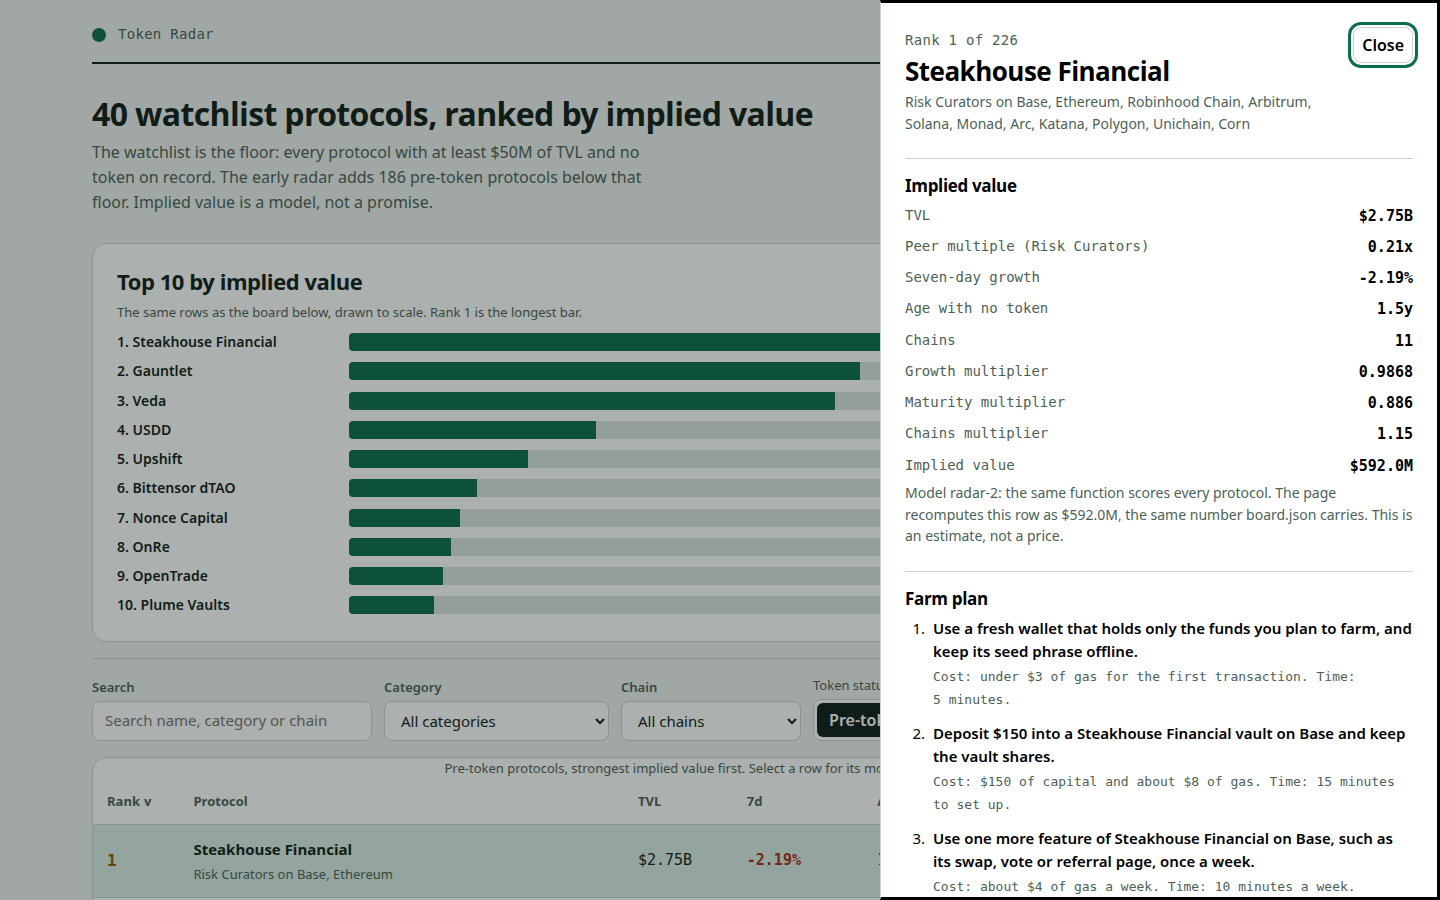
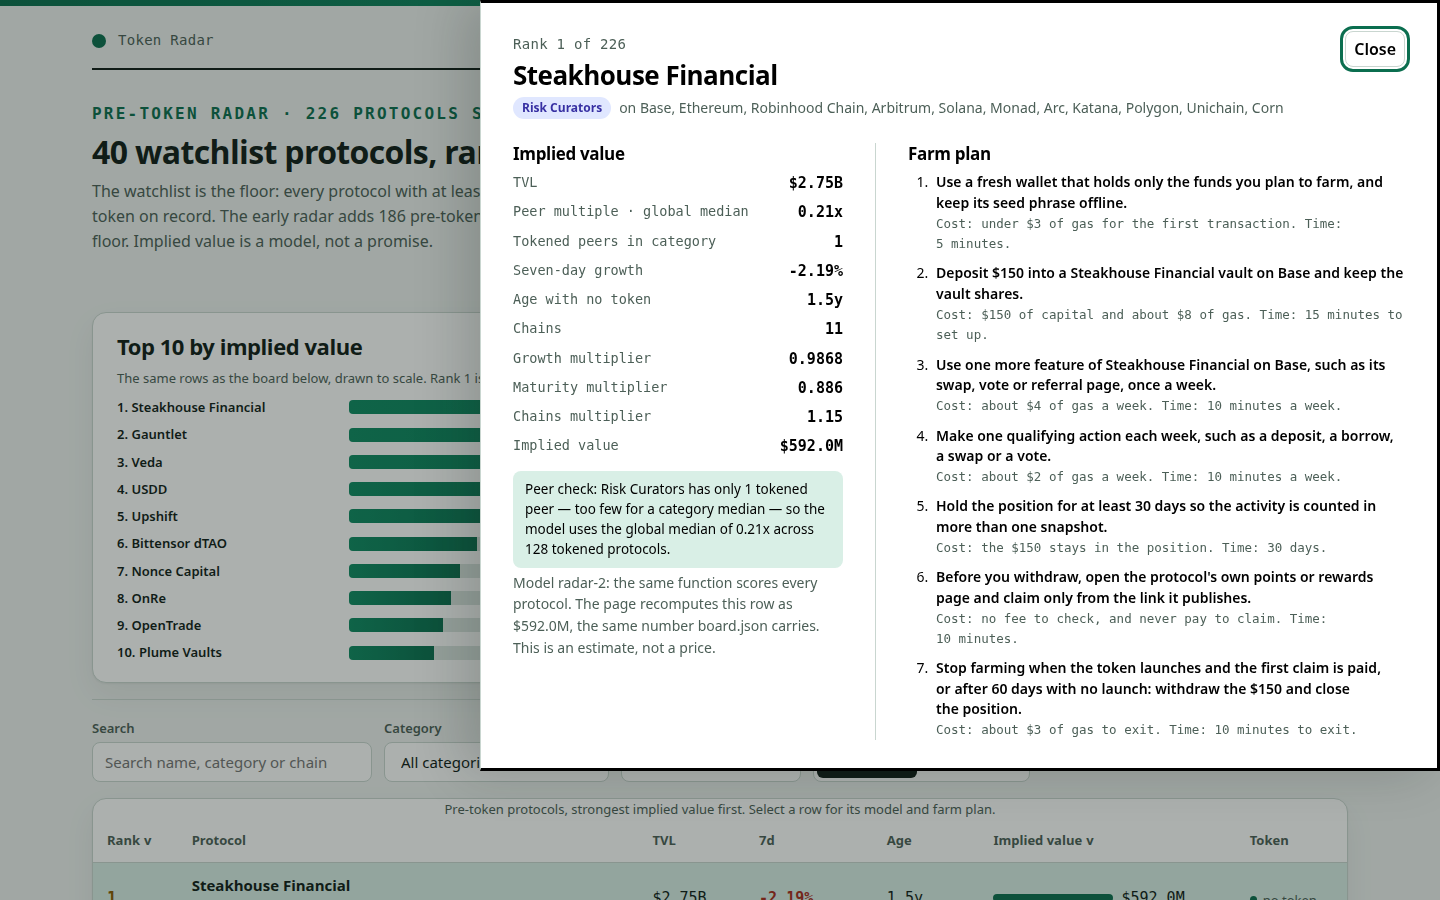
Premium polish: filter-aware chart, category chips, two-column detail with peer check
- Top-10 chart now follows the active search/category/chain filter
  (heading + counts name the filtered set); board shot shows 10 rows
- Detail drawer is two columns (model + peer check left, all 7 farm
  steps right) so the whole drawer fits one 900px viewport
- Peer comparison is now visible in the drawer: category median vs
  global median with the reason (too few / no tokened peers), plus
  floor/cap note; model panel states the <3-peer fallback
- Premium look: gradient accent strip, kicker, fact cards, zebra
  rows, panel depth, compact chart; dashboard still 43,147 bytes
  (cap 65,536), no external URLs; model and board values unchanged

diff --git a/dashboard/app.js b/dashboard/app.js
@@ -65,6 +65,23 @@
     return node;
   }
 
+  // Category chips: a fixed 8-colour palette, assigned by a hash of the category name, so no
+  // category is special-cased and every row gets a readable coloured chip.
+  var CHIP_COLORS = [
+    ['#d9efe6', '#0b5c40'], ['#dbe9f7', '#1d4e89'], ['#ece4f8', '#5b2d8e'], ['#fdeeda', '#7a4a00'],
+    ['#fbdfe1', '#8c1d24'], ['#e3f2d9', '#2f5d0f'], ['#e0e7ff', '#3730a3'], ['#f0e4d8', '#6b3a1f']
+  ];
+  function catColor(cat) {
+    var h = 0;
+    var s = String(cat || 'Other');
+    for (var i = 0; i < s.length; i++) h = (h * 31 + s.charCodeAt(i)) >>> 0;
+    return CHIP_COLORS[h % CHIP_COLORS.length];
+  }
+  function chip(cat) {
+    var c = catColor(cat);
+    return el('span', { class: 'chip', style: 'background:' + c[0] + ';color:' + c[1], text: cat || 'Other' });
+  }
+
   // The farm plan is the same derivation main.ts writes to board.json: category, chains, TVL and age
   // decide the action, the capital, the hold and every cost and time. No name is special-cased.
   function chainOf(p) { return p.chains && p.chains.length > 0 ? p.chains[0] : 'its main chain'; }
@@ -190,6 +207,7 @@
   function lede() {
     return el('section', { class: 'lede' },
       el('div', null,
+        el('p', { class: 'kicker', text: 'Pre-token radar · ' + DATA.board_size + ' protocols scored · ' + DATA.watchlist_size + ' on the watchlist' }),
         el('h1', { text: DATA.watchlist_size + ' watchlist protocols, ranked by implied value' }),
         el('p', { text: 'The watchlist is the floor: every protocol with at least $' + Math.round(DATA.floor_usd / 1e6) + 'M of TVL and no token on record. The early radar adds ' + DATA.early_size + ' pre-token protocols below that floor. Implied value is a model, not a promise.' })
       ),
@@ -202,11 +220,15 @@
     );
   }
 
-  // Top-10 chart: plain HTML bars, drawn from the same rows the table shows. No image, no network,
-  // and no SVG namespace string in the source.
+  // Top-10 chart: plain HTML bars, drawn from the same rows the table shows — the rows currently
+  // in view, so the chart always follows the active search, category and chain filters. No image,
+  // no network, and no SVG namespace string in the source.
   function topChart() {
-    var top = DATA.rows.slice(0, 10);
+    var list = rows();
+    if (list.length === 0) return null;
+    var top = list.slice(0, 10);
     var max = top[0] ? top[0].implied_value_usd : 1;
+    var filtered = state.category !== 'all' || state.chain !== 'all' || state.q.trim() !== '';
     var bars = top.map(function (r) {
       var w = Math.max(4, Math.round((r.implied_value_usd / max) * 100));
       return el('div', { class: 'chart-row' },
@@ -216,8 +238,8 @@
       );
     });
     return el('section', { class: 'panel chart-panel' },
-      el('h2', { text: 'Top 10 by implied value' }),
-      el('p', { class: 'sub', text: 'The same rows as the board below, drawn to scale. Rank 1 is the longest bar.' }),
+      el('h2', { text: 'Top 10 by implied value' + (state.category !== 'all' ? ' · ' + state.category : '') }),
+      el('p', { class: 'sub', text: filtered ? 'The top 10 of the ' + list.length + ' row' + (list.length === 1 ? '' : 's') + ' in view, drawn to scale. Rank 1 is the longest bar.' : 'The same rows as the board below, drawn to scale. Rank 1 is the longest bar.' }),
       el('div', { class: 'chart' }, bars)
     );
   }
@@ -288,7 +310,10 @@
         el('td', { class: 'num rank ' + rankBadge(r.rank), text: String(r.rank) }),
         el('td', null, el('div', { class: 'name' },
           el('b', { text: r.name }),
-          el('span', { class: 'sub', text: (r.category || 'Other') + ' on ' + (r.chains && r.chains.length ? r.chains.slice(0, 2).join(', ') : 'an unnamed chain') })
+          el('div', { class: 'row-sub' },
+            chip(r.category),
+            el('span', { class: 'sub', text: 'on ' + (r.chains && r.chains.length ? r.chains.slice(0, 2).join(', ') : 'an unnamed chain') })
+          )
         )),
         el('td', { class: 'num', text: fmtUsd(r.tvl_usd) }),
         el('td', { class: 'num ' + growthClass, text: growth }),
@@ -325,7 +350,13 @@
     DATA.live.forEach(function (r) {
       tbody.appendChild(el('tr', null,
         el('td', { class: 'num', text: 'live' }),
-        el('td', null, el('div', { class: 'name' }, el('b', { text: r.name }), el('span', { class: 'sub', text: (r.category || 'Other') + ' on ' + (r.chains && r.chains.length ? r.chains.slice(0, 2).join(', ') : 'an unnamed chain') }))),
+        el('td', null, el('div', { class: 'name' },
+          el('b', { text: r.name }),
+          el('div', { class: 'row-sub' },
+            chip(r.category),
+            el('span', { class: 'sub', text: 'on ' + (r.chains && r.chains.length ? r.chains.slice(0, 2).join(', ') : 'an unnamed chain') })
+          )
+        )),
         el('td', { class: 'num', text: fmtUsd(r.tvl_usd) }),
         el('td', { class: 'num ' + (r.change_7d !== null && r.change_7d >= 0 ? 'pos' : 'neg'), text: fmtPct(r.change_7d) }),
         el('td', { class: 'num', text: fmtUsd(r.mcap_usd) }),
@@ -359,7 +390,7 @@
       el('div', { class: 'formula' },
         'implied = round( tvl_usd x peerMultiple x (1 + clamp(change_7d, ' + m.growth_floor + ', ' + m.growth_cap + ') / 100 x ' + m.growth_weight + ') x (' + m.maturity_floor + ' + min(age_days, ' + m.maturity_days + ') / ' + m.maturity_days + ' x ' + m.maturity_range + ') x (1 + 0.03 x min(chains - 1, 5)) )'
       ),
-      el('p', { class: 'sub', text: 'peerMultiple is the median market-cap / TVL of the tokened protocols in the same category, computed from this snapshot and clamped to ' + m.peer_floor + '–' + m.peer_cap + '. TVL and seven-day growth come from the snapshot. Age is the time since the protocol was first listed, the best record of how long it has run with no token; an unlisted age uses ' + m.unknown_age_days + ' days. The early radar is every pre-token protocol below the watchlist floor, ranked by implied value, and the live-token protocols are set aside with their market caps shown.' }),
+      el('p', { class: 'sub', text: 'peerMultiple is the median market-cap / TVL of the tokened protocols in the same category, computed from this snapshot and clamped to ' + m.peer_floor + '–' + m.peer_cap + '. When a category has fewer than ' + m.peer_min_peers + ' tokened peers, the global median across all tokened protocols is used instead. TVL and seven-day growth come from the snapshot. Age is the time since the protocol was first listed, the best record of how long it has run with no token; an unlisted age uses ' + m.unknown_age_days + ' days. The early radar is every pre-token protocol below the watchlist floor, ranked by implied value, and the live-token protocols are set aside with their market caps shown.' }),
       el('h3', { text: 'Peer multiples by category' }),
       el('div', { class: 'peers' }, peerRows)
     );
@@ -375,37 +406,66 @@
     writeHash();
     dialog.textContent = '';
     var steps = farmSteps(row);
+    // Peer comparison: the row's multiple is the category median when the category has enough
+    // tokened peers, otherwise the global median across every tokened protocol; a category with
+    // no tokened peer at all is not in the peer list, so it falls back the same way. Say which.
+    var peer = (DATA.peer_multiples || []).filter(function (p) { return p.category === row.category; })[0];
+    var peerTotal = (DATA.peer_multiples || []).reduce(function (a, p) { return a + p.peers; }, 0);
+    var mult = row.peer_multiple === null || row.peer_multiple === undefined ? null : row.peer_multiple;
+    var peerLabel = 'Peer multiple';
+    var peerNoteText;
+    if (peer && peer.peers >= DATA.model.peer_min_peers) {
+      peerLabel = 'Peer multiple · category median';
+      peerNoteText = 'Peer check: ' + row.category + ' has ' + peer.peers + ' tokened peers, median market-cap / TVL ' + peer.multiple.toFixed(2) + 'x. This row is scored with that multiple.';
+    } else if (peer) {
+      peerLabel = 'Peer multiple · global median';
+      peerNoteText = 'Peer check: ' + row.category + ' has only ' + peer.peers + ' tokened peer' + (peer.peers === 1 ? '' : 's') + ' — too few for a category median — so the model uses the global median of ' + (mult === null ? 'n/a' : mult.toFixed(2) + 'x') + ' across ' + peerTotal + ' tokened protocols.';
+    } else {
+      peerLabel = 'Peer multiple · global median';
+      peerNoteText = 'Peer check: no tokened peer in ' + row.category + ' yet, so the model uses the global median of ' + (mult === null ? 'n/a' : mult.toFixed(2) + 'x') + ' across ' + peerTotal + ' tokened protocols.';
+    }
+    if (mult !== null && mult <= DATA.model.peer_floor + 1e-9) peerNoteText += ' It sits at the model floor of ' + DATA.model.peer_floor + 'x.';
+    else if (mult !== null && mult >= DATA.model.peer_cap - 1e-9) peerNoteText += ' It sits at the model cap of ' + DATA.model.peer_cap + 'x.';
     dialog.appendChild(el('div', { class: 'detail-head' },
       el('div', null,
         el('span', { class: 'brand-name', text: 'Rank ' + row.rank + ' of ' + DATA.board_size }),
         el('h2', { id: 'detail-title', text: row.name }),
-        el('p', { class: 'sub', text: (row.category || 'Other') + ' on ' + (row.chains && row.chains.length ? row.chains.join(', ') : 'an unnamed chain') })
+        el('div', { class: 'row-sub' },
+          chip(row.category),
+          el('span', { class: 'sub', text: 'on ' + (row.chains && row.chains.length ? row.chains.join(', ') : 'an unnamed chain') })
+        )
       ),
       el('button', { class: 'close', type: 'button', 'aria-label': 'Close details', text: 'Close', onclick: function () { dialog.close(); } })
     ));
-    dialog.appendChild(el('section', { class: 'detail-section' },
-      el('h3', { text: 'Implied value' }),
-      el('div', { class: 'equation' },
-        el('div', null, el('span', { text: 'TVL' }), el('b', { class: 'num', text: fmtUsd(row.tvl_usd) })),
-        el('div', null, el('span', { text: 'Peer multiple (' + (row.category || 'Other') + ')' }), el('b', { class: 'num', text: (row.peer_multiple === null || row.peer_multiple === undefined ? 'n/a' : row.peer_multiple.toFixed(2) + 'x') })),
-        el('div', null, el('span', { text: 'Seven-day growth' }), el('b', { class: 'num', text: fmtPct(row.change_7d) })),
-        el('div', null, el('span', { text: 'Age with no token' }), el('b', { class: 'num', text: fmtAge(row.age_days) })),
-        el('div', null, el('span', { text: 'Chains' }), el('b', { class: 'num', text: String(row.chains ? row.chains.length : 0) })),
-        el('div', null, el('span', { text: 'Growth multiplier' }), el('b', { class: 'num', text: String(row.growth_multiplier) })),
-        el('div', null, el('span', { text: 'Maturity multiplier' }), el('b', { class: 'num', text: String(row.maturity_multiplier) })),
-        el('div', null, el('span', { text: 'Chains multiplier' }), el('b', { class: 'num', text: String(row.chains_multiplier) })),
-        el('div', null, el('span', { text: 'Implied value' }), el('b', { class: 'num', text: fmtUsd(row.implied_value_usd) }))
+    // Two columns, so the model and the whole farm plan fit in one 900px viewport: the implied
+    // value and its peer check on the left, all seven farm steps on the right.
+    dialog.appendChild(el('div', { class: 'detail-grid' },
+      el('section', { class: 'detail-section' },
+        el('h3', { text: 'Implied value' }),
+        el('div', { class: 'equation' },
+          el('div', null, el('span', { text: 'TVL' }), el('b', { class: 'num', text: fmtUsd(row.tvl_usd) })),
+          el('div', null, el('span', { text: peerLabel }), el('b', { class: 'num', text: (row.peer_multiple === null || row.peer_multiple === undefined ? 'n/a' : row.peer_multiple.toFixed(2) + 'x') })),
+          peer ? el('div', null, el('span', { text: 'Tokened peers in category' }), el('b', { class: 'num', text: String(peer.peers) })) : null,
+          el('div', null, el('span', { text: 'Seven-day growth' }), el('b', { class: 'num', text: fmtPct(row.change_7d) })),
+          el('div', null, el('span', { text: 'Age with no token' }), el('b', { class: 'num', text: fmtAge(row.age_days) })),
+          el('div', null, el('span', { text: 'Chains' }), el('b', { class: 'num', text: String(row.chains ? row.chains.length : 0) })),
+          el('div', null, el('span', { text: 'Growth multiplier' }), el('b', { class: 'num', text: String(row.growth_multiplier) })),
+          el('div', null, el('span', { text: 'Maturity multiplier' }), el('b', { class: 'num', text: String(row.maturity_multiplier) })),
+          el('div', null, el('span', { text: 'Chains multiplier' }), el('b', { class: 'num', text: String(row.chains_multiplier) })),
+          el('div', null, el('span', { text: 'Implied value' }), el('b', { class: 'num', text: fmtUsd(row.implied_value_usd) }))
+        ),
+        el('p', { class: 'peer-note', text: peerNoteText }),
+        el('p', { class: 'sub', text: 'Model ' + DATA.model_version + ': the same function scores every protocol. The page recomputes this row as ' + fmtUsd(impliedOf(row, DATA.model)) + (impliedOf(row, DATA.model) === row.implied_value_usd ? ', the same number board.json carries.' : ', which differs from the board: the data would be stale.') + ' This is an estimate, not a price.' })
       ),
-      el('p', { class: 'sub', text: 'Model ' + DATA.model_version + ': the same function scores every protocol. The page recomputes this row as ' + fmtUsd(impliedOf(row, DATA.model)) + (impliedOf(row, DATA.model) === row.implied_value_usd ? ', the same number board.json carries.' : ', which differs from the board: the data would be stale.') + ' This is an estimate, not a price.' })
-    ));
-    dialog.appendChild(el('section', { class: 'detail-section' },
-      el('h3', { text: 'Farm plan' }),
-      el('ol', { class: 'steps' }, steps.map(function (s) {
-        var at = s.indexOf(' Cost: ');
-        var action = at >= 0 ? s.slice(0, at) : s;
-        var tail = at >= 0 ? s.slice(at + 1) : '';
-        return el('li', null, el('b', { text: action }), el('span', { class: 'cost', text: tail }));
-      }))
+      el('section', { class: 'detail-section' },
+        el('h3', { text: 'Farm plan' }),
+        el('ol', { class: 'steps' }, steps.map(function (s) {
+          var at = s.indexOf(' Cost: ');
+          var action = at >= 0 ? s.slice(0, at) : s;
+          var tail = at >= 0 ? s.slice(at + 1) : '';
+          return el('li', null, el('b', { text: action }), el('span', { class: 'cost', text: tail }));
+        }))
+      )
     ));
     if (typeof dialog.showModal === 'function') {
       if (!dialog.open) dialog.showModal();
@@ -419,7 +479,10 @@
     var shell = el('div', { class: 'shell' });
     shell.appendChild(header());
     shell.appendChild(lede());
-    if (state.tab === 'pre-token') shell.appendChild(topChart());
+    if (state.tab === 'pre-token') {
+      var chart = topChart();
+      if (chart) shell.appendChild(chart);
+    }
     shell.appendChild(controls());
     shell.appendChild(state.tab === 'pre-token' ? boardTable() : liveTable());
     if (state.tab === 'pre-token') shell.appendChild(modelPanel());

diff --git a/dashboard/app.css b/dashboard/app.css
@@ -35,6 +35,10 @@ body {
   font: 400 16px/1.55 var(--font-body);
   text-wrap: pretty;
 }
+body::before {
+  content: ""; display: block; height: 6px;
+  background: linear-gradient(90deg, #0b6e4f 0%, #0e8a63 45%, #c99a2e 100%);
+}
 h1, h2, h3 { margin: 0; letter-spacing: -0.02em; text-wrap: balance; }
 h1 { font-size: 32px; line-height: 1.15; font-weight: 700; }
 h2 { font-size: 22px; line-height: 1.2; font-weight: 700; }
@@ -61,20 +65,22 @@ a { color: var(--accent); }
 .top-meta { display: flex; flex-wrap: wrap; gap: var(--step-3); justify-content: flex-end; color: var(--muted); font-size: 14px; }
 .top-meta span { white-space: nowrap; }
 .lede { display: grid; grid-template-columns: minmax(0, 1.35fr) minmax(280px, 0.65fr); gap: var(--step-6); padding: var(--step-6) 0 var(--step-5); }
+.kicker { font-family: var(--font-num); font-size: 12px; font-weight: 700; letter-spacing: 0.14em; text-transform: uppercase; color: var(--accent); margin-bottom: var(--step-2); }
 .lede p { color: var(--muted); max-width: 62ch; margin-top: var(--step-2); font-size: 16px; }
-.facts { display: grid; gap: var(--step-2); align-content: start; border-left: 2px solid var(--border); padding-left: var(--step-5); }
-.fact { display: flex; align-items: baseline; justify-content: space-between; gap: var(--step-3); }
-.fact b { font-family: var(--font-num); font-size: 16px; font-weight: 700; }
-.fact span { color: var(--muted); font-size: 14px; }
+.lede p.kicker { color: var(--accent); margin-top: 0; max-width: none; }
+.facts { display: grid; grid-template-columns: 1fr 1fr; gap: var(--step-2); align-content: start; }
+.fact { display: flex; flex-direction: column; align-items: flex-start; gap: 2px; background: var(--surface); border: 1px solid var(--border); border-radius: 12px; padding: var(--step-3) var(--step-4); box-shadow: 0 1px 2px rgba(16, 28, 23, 0.05); }
+.fact b { font-family: var(--font-num); font-size: 20px; font-weight: 700; }
+.fact span { color: var(--muted); font-size: 13px; }
 
-.chart-panel { margin-bottom: var(--step-4); padding: var(--step-5); display: grid; gap: var(--step-2); }
+.chart-panel { margin-bottom: var(--step-4); padding: 20px var(--step-5) 18px; display: grid; gap: var(--step-2); }
 .chart-panel h2 { font-size: 22px; }
-.chart { display: grid; gap: 6px; }
+.chart { display: grid; gap: 4px; }
 .chart-row { display: grid; grid-template-columns: 220px 1fr 110px; align-items: center; gap: var(--step-3); }
-.chart-label { font-size: 14px; font-weight: 600; white-space: nowrap; overflow: hidden; text-overflow: ellipsis; }
-.chart-track { height: 18px; border-radius: 4px; background: #dbe5e0; overflow: hidden; }
-.chart-fill { display: block; height: 100%; background: var(--accent); }
-.chart-value { font-size: 14px; font-weight: 700; text-align: right; }
+.chart-label { font-size: 13px; font-weight: 600; white-space: nowrap; overflow: hidden; text-overflow: ellipsis; }
+.chart-track { height: 14px; border-radius: 4px; background: #dbe5e0; overflow: hidden; }
+.chart-fill { display: block; height: 100%; background: linear-gradient(90deg, #0e8a63, #0b6e4f); }
+.chart-value { font-size: 13px; font-weight: 700; text-align: right; }
 
 .controls { display: flex; flex-wrap: wrap; align-items: end; gap: var(--step-3); padding: var(--step-4) 0; border-top: 1px solid var(--border); }
 .field { display: grid; gap: var(--step-1); }
@@ -89,14 +95,15 @@ a { color: var(--accent); }
 .tabs button[aria-pressed="true"] { background: var(--ink); color: var(--surface); }
 .count { margin-left: auto; color: var(--muted); font-size: 14px; align-self: center; }
 
-.panel { background: var(--surface); border: 1px solid var(--border); border-radius: var(--radius-panel); overflow: hidden; }
+.panel { background: var(--surface); border: 1px solid var(--border); border-radius: var(--radius-panel); overflow: hidden; box-shadow: 0 1px 2px rgba(16, 28, 23, 0.05), 0 12px 32px rgba(16, 28, 23, 0.06); }
 .table-wrap { overflow-x: auto; }
 table { width: 100%; border-collapse: collapse; font-size: 15px; }
-th, td { padding: 13px 14px; border-bottom: 1px solid var(--border); text-align: left; vertical-align: middle; }
+th, td { padding: 11px 14px; border-bottom: 1px solid var(--border); text-align: left; vertical-align: middle; }
 th { color: var(--muted); font-size: 13px; font-weight: 700; white-space: nowrap; }
 th button { display: inline-flex; align-items: center; gap: var(--step-1); border: 0; background: none; padding: 0; color: inherit; font: inherit; }
 th button:hover { color: var(--ink); }
 tbody tr { cursor: pointer; }
+tbody tr:nth-child(even) { background: #f7faf8; }
 tbody tr:hover { background: var(--accent-soft); }
 tbody tr[data-selected="true"] { background: var(--accent-soft); }
 .num { font-family: var(--font-num); font-variant-numeric: tabular-nums; white-space: nowrap; font-size: 15px; }
@@ -107,6 +114,8 @@ tbody tr[data-selected="true"] { background: var(--accent-soft); }
 .rank-top10 { color: var(--accent); }
 .name { display: grid; gap: 2px; }
 .name b { font-weight: 700; font-size: 15px; }
+.row-sub { display: flex; align-items: center; gap: var(--step-2); margin-top: 2px; flex-wrap: wrap; }
+.chip { display: inline-block; padding: 2px 9px; border-radius: 999px; font-size: 12px; font-weight: 700; line-height: 1.5; white-space: nowrap; }
 .sub { color: var(--muted); font-size: 13px; }
 .pos { color: var(--accent); font-weight: 700; }
 .neg { color: var(--negative); font-weight: 700; }
@@ -127,9 +136,9 @@ tbody tr[data-selected="true"] { background: var(--accent-soft); }
 .button.primary { background: var(--accent); border-color: var(--accent); color: var(--surface); }
 
 .detail {
-  position: fixed; top: 0; right: 0; bottom: 0; width: min(560px, 94vw); z-index: 10;
-  background: var(--surface); border-left: 1px solid var(--border); padding: var(--step-5);
-  overflow-y: auto;
+  position: fixed; top: 0; right: 0; bottom: 0; width: min(960px, 96vw); z-index: 10;
+  background: var(--surface); border-left: 1px solid var(--border); padding: 28px 32px;
+  overflow-y: auto; box-shadow: -16px 0 48px rgba(16, 28, 23, 0.18);
 }
 .detail[hidden] { display: none; }
 .detail { margin: 0 0 0 auto; max-height: 100%; }
@@ -137,25 +146,34 @@ tbody tr[data-selected="true"] { background: var(--accent-soft); }
 .detail-head { display: flex; align-items: start; justify-content: space-between; gap: var(--step-4); }
 .detail-head > div { min-width: 0; }
 .detail-head .sub { overflow-wrap: anywhere; }
+.detail-head .row-sub { margin-top: 6px; }
+.detail-head .row-sub .sub { margin-top: 0; }
+.detail-grid { display: grid; grid-template-columns: 330px minmax(0, 1fr); gap: 32px; margin-top: var(--step-5); }
+.detail-grid > .detail-section { margin-top: 0; padding-top: 0; border-top: 0; }
+.detail-grid > .detail-section + .detail-section { border-left: 1px solid var(--border); padding-left: 32px; }
+.peer-note { background: var(--accent-soft); border-radius: var(--radius-control); padding: var(--step-2) var(--step-3); font-size: 13.5px; line-height: 1.5; margin-top: var(--step-3); }
 .close { flex: none; min-width: 36px; min-height: 36px; padding: 0 var(--step-2); white-space: nowrap; border: 1px solid var(--border); border-radius: var(--radius-control); background: var(--surface); font-weight: 600; }
 .detail h2 { margin-top: var(--step-1); font-size: 26px; }
 .detail .sub { margin-top: var(--step-1); font-size: 14px; }
 .detail-section { margin-top: var(--step-5); padding-top: var(--step-4); border-top: 1px solid var(--border); }
 .detail-section h3 { margin-bottom: var(--step-2); }
-.equation { display: grid; gap: var(--step-2); font-family: var(--font-num); font-size: 14px; }
+.equation { display: grid; gap: 6px; font-family: var(--font-num); font-size: 13.5px; }
 .equation div { display: flex; justify-content: space-between; gap: var(--step-3); }
 .equation span { color: var(--muted); }
 .equation b { font-weight: 700; }
-.steps { margin: 0; padding-left: var(--step-5); display: grid; gap: var(--step-3); font-size: 15px; }
-.steps li { padding-left: var(--step-1); }
+.steps { margin: 0; padding-left: var(--step-5); display: grid; gap: 10px; font-size: 14px; }
+.steps li { padding-left: var(--step-1); line-height: 1.45; }
 .steps b { display: block; font-weight: 600; }
-.cost { color: var(--muted); font-size: 13px; font-family: var(--font-num); }
+.cost { color: var(--muted); font-size: 12.5px; font-family: var(--font-num); }
 
 @media (max-width: 900px) {
   .shell { padding: var(--step-4); }
   .lede { grid-template-columns: 1fr; gap: var(--step-4); }
-  .facts { border-left: 0; border-top: 1px solid var(--border); padding-left: 0; padding-top: var(--step-4); }
+  .facts { grid-template-columns: 1fr 1fr; }
   .field input { min-width: 0; width: 100%; }
+  .detail { padding: var(--step-4); }
+  .detail-grid { grid-template-columns: 1fr; gap: var(--step-4); }
+  .detail-grid > .detail-section + .detail-section { border-left: 0; padding-left: 0; border-top: 1px solid var(--border); padding-top: var(--step-4); }
 }
 @media (prefers-reduced-motion: reduce) {
   *, *::before, *::after { transition-duration: 0.01ms !important; animation-duration: 0.01ms !important; animation-iteration-count: 1 !important; }
